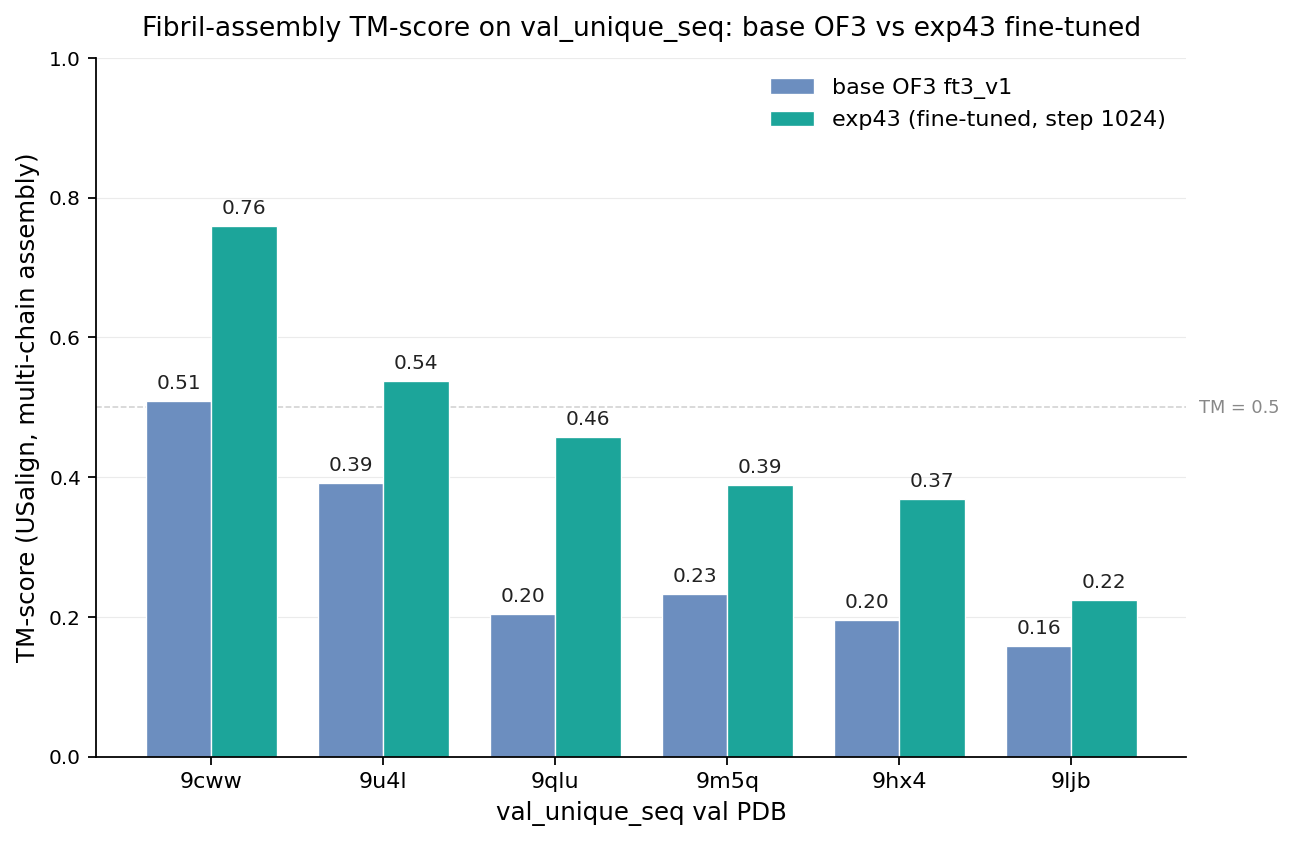
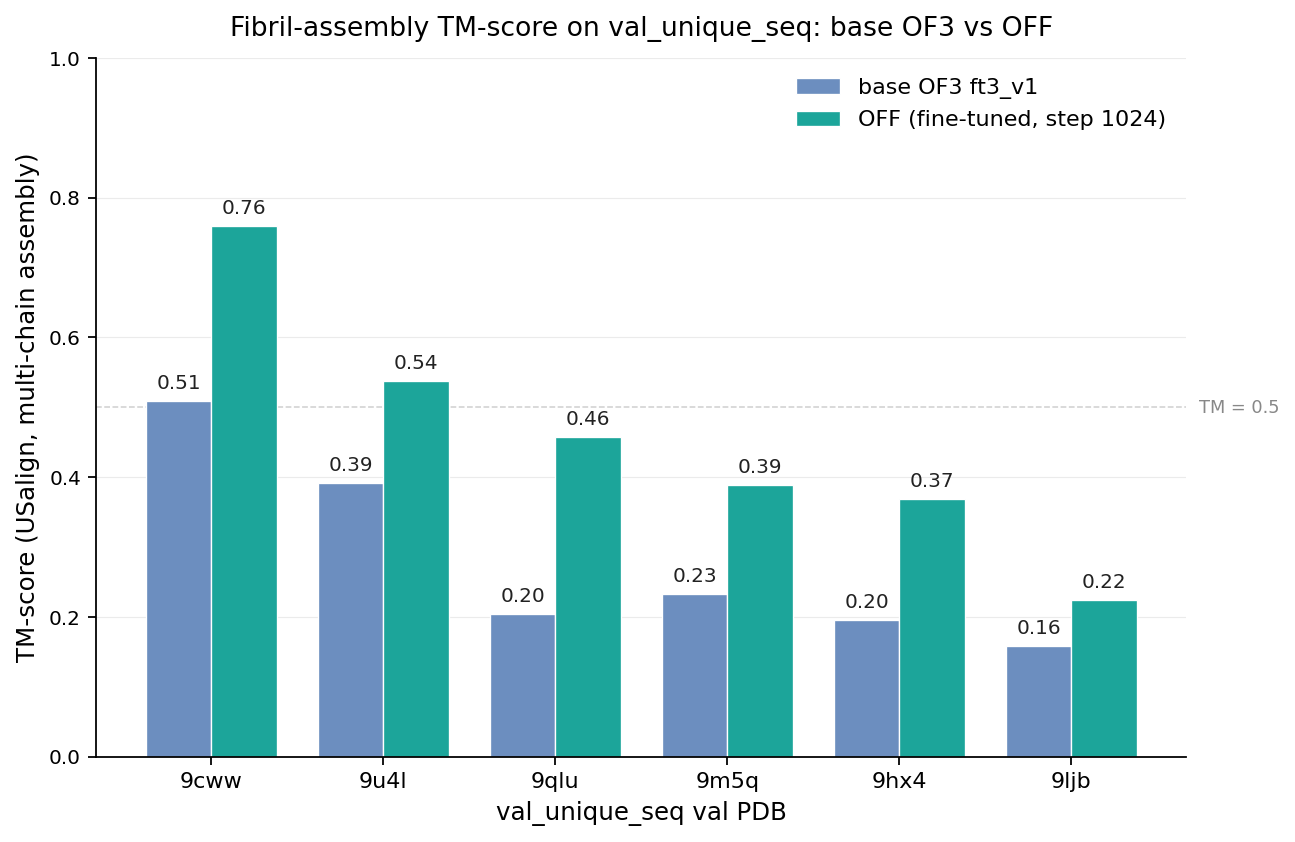
docs: rename OpenFibrilFold→OFF in body; metrics table split per-dataloader
- README: define OFF on first mention, then use OFF throughout body (h1
  title, logo alt, BibTeX, and release-notes history retain the full
  name on purpose).
- README metrics table: replace the 3-col aggregate (OF3 base / OFF)
  with a 4-col per-dataloader layout (OF3 base val_unique_seq /
  OFF val_unique_seq / OF3 base val_ligand / OFF val_ligand). Ligand
  rows show — in the val_unique_seq columns. Numbers come straight from
  docs/val_compare.md per-dataloader rows — no re-aggregation, no new
  data.
- docs/val_compare.md: doc title keeps the full name as natural first
  mention; body, table headers, and prose now use OFF. Drop "exp43" from
  body prose (config-file path runner_v3_exp43.yml is kept since it's
  the literal artifact name).
- docs/methods.md: define OFF on first mention, then OFF throughout.
- figures/build_h2h_grid.py: row label "OpenFibrilFold" → "OFF" so the
  rendered h2h_grid.png shows OFF in the bottom-row gutter.
- scripts/plot_val_compare_tm.py (private repo): bar legend
  "exp43 (fine-tuned, step 1024)" → "OFF (fine-tuned, step 1024)";
  title "... vs exp43 fine-tuned" → "... vs OFF". Re-rendered both
  per-dataloader PNGs and the h2h grid; copied into figures/.
- figures/render_overlays.py: tighten header comment to define OFF then
  use OFF in the legend description.

Changed region(s): [[0.1236, 0.0, 0.8649, 0.0618], [0.5869, 0.0926, 0.8031, 0.1544], [0.834, 0.1235, 0.8958, 0.1544]]

diff --git a/figures/build_h2h_grid.py b/figures/build_h2h_grid.py
@@ -3,7 +3,7 @@
 Layout:
     cols (left→right): 9qlu (best val_unique_seq), 9ug1 (best val_ligand),
                        9ljb (hardest case in either val set)
-    rows (top→bottom): OF3 base, Ground truth, OpenFibrilFold
+    rows (top→bottom): OF3 base, Ground truth, OFF
 
 Each cell shows the panel image and lDDT + TM-score labels below.
 Row labels appear as rotated text on the left margin; column labels
@@ -26,14 +26,14 @@ PDBS = ["9qlu", "9ug1", "9ljb"]
 ROWS = [
     ("OF3 base",        "base", (227, 121, 21)),
     ("Ground truth",    "gt",   (50, 50, 50)),
-    ("OpenFibrilFold",  "off",  (28, 99, 173)),
+    ("OFF",             "off",  (28, 99, 173)),
 ]
 
 # Per-PDB lDDT computed via openfold3.core.metrics.validation_all_atom.lddt
 # (the function the val pipeline uses) on heavy atoms after Hungarian
 # chain-permutation matching. Same formula → same numerical scale as the
 # README metric table. Computed by scripts/per_pdb_val_metric.py on the
-# val_compare pred / gt CIFs (epoch 0 of trainer.validate on exp43
+# val_compare pred / gt CIFs (epoch 0 of trainer.validate on OFF
 # step 1024 vs base OF3 ft3_v1).
 LDDT = {
     "9qlu": {"base": 0.406, "off": 0.492},

diff --git a/figures/render_overlays.py b/figures/render_overlays.py
@@ -1,7 +1,7 @@
-# PyMOL rendering script for OpenFibrilFold head-to-head overlays.
+# PyMOL rendering script for OFF (OpenFibrilFold) head-to-head overlays.
 #
 # For each PDB, loads the experimental ground-truth CIF, the OpenFold3 base
-# prediction CIF, and the OpenFibrilFold prediction CIF. Aligns both
+# prediction CIF, and the OFF prediction CIF. Aligns both
 # predictions onto the experimental backbone using cmd.super (structure-based;
 # robust to (a) the GT containing only resolved residues while predictions are
 # full-sequence, and (b) homo-multimer fibrils where sequence-based align
@@ -9,7 +9,7 @@
 # three structures overlaid:
 #   ground truth      grey   (translucent cartoon)
 #   OpenFold3 base    orange (cartoon, ligands as sticks)
-#   OpenFibrilFold    blue   (cartoon, ligands as sticks)
+#   OFF               blue   (cartoon, ligands as sticks)
 #
 # Usage:
 #     pymol -cq render_overlays.py -- \

diff --git a/README.md b/README.md
@@ -18,7 +18,7 @@
 
 ## Overview
 
-OpenFibrilFold adapts [OpenFold3](https://github.com/aqlaboratory/openfold-3) (an open reimplementation of AlphaFold 3) to the structural-prediction problem of **amyloid fibrils**: ribbon-like protein assemblies built from cross-β–stacked monomers, often in many coexisting *polymorphs*. Off-the-shelf folding models tend to either collapse onto a single fibril packing or produce geometrically-inconsistent ribbons because their cropping, distogram, and confidence machinery weren't designed for periodic ribbon assemblies. OpenFibrilFold introduces:
+OpenFibrilFold (OFF) adapts [OpenFold3](https://github.com/aqlaboratory/openfold-3) (an open reimplementation of AlphaFold 3) to the structural-prediction problem of **amyloid fibrils**: ribbon-like protein assemblies built from cross-β–stacked monomers, often in many coexisting *polymorphs*. Off-the-shelf folding models tend to either collapse onto a single fibril packing or produce geometrically-inconsistent ribbons because their cropping, distogram, and confidence machinery weren't designed for periodic ribbon assemblies. OFF introduces:
 
 - a **ribbon-symmetric crop** that preserves both faces of the cross-β stack during training,
 - a **cross-ribbon distogram weight** that emphasizes the fold-defining inter-strand contacts,
@@ -30,56 +30,56 @@ We are also interested in the model's capability to **predict ligand poses bound
 ## Highlights
 
 > [!NOTE]
-> Validation is a single full-sequence pass (`trainer.validate`) over the held-out fibril set, run end-to-end against unmodified OpenFold3 base weights using the *same* config (val pool, diffusion sampling, polymorph matching, MSAs, templates). The only difference between the two columns is the model weights. Two dataloaders, 13 PDBs total: `val_unique_seq` (n=6, rare-fold apo + ligand fibrils on unseen sequences) and `val_ligand` (n=7, ligand-bound fibrils). Numbers below are aggregates across both; per-dataloader and per-PDB breakdowns are in [`docs/val_compare.md`](docs/val_compare.md).
+> Validation is a single full-sequence pass (`trainer.validate`) over the held-out fibril set, run end-to-end against unmodified OpenFold3 base weights using the *same* config (val pool, diffusion sampling, polymorph matching, MSAs, templates). Within each dataloader, the only difference between the OF3 base and OFF columns is the model weights. Two dataloaders, 13 PDBs total: `val_unique_seq` (n=6, rare-fold apo + ligand fibrils on unseen sequences) and `val_ligand` (n=7, ligand-bound fibrils). Numbers below are reported per-dataloader (no aggregation); per-PDB breakdowns are in [`docs/val_compare.md`](docs/val_compare.md).
 
 <p align="center">
-  <img src="figures/val_ligand_tm.png" alt="Per-PDB fibril-assembly TM-score on val_ligand: base OF3 vs OpenFibrilFold (paired bars)" width="780" />
+  <img src="figures/val_ligand_tm.png" alt="Per-PDB fibril-assembly TM-score on val_ligand: base OF3 vs OFF (paired bars)" width="780" />
 </p>
 
-<sub>Per-PDB fibril-assembly TM-score on `val_ligand` (USalign multi-chain complex mode). OpenFibrilFold scores higher than base OF3 on every PDB in the set; per-PDB margins range from +0.15 to +0.32.</sub>
+<sub>Per-PDB fibril-assembly TM-score on `val_ligand` (USalign multi-chain complex mode). OFF scores higher than base OF3 on every PDB in the set; per-PDB margins range from +0.15 to +0.32.</sub>
 
 <p align="center">
-  <img src="figures/val_unique_seq_tm.png" alt="Per-PDB fibril-assembly TM-score on val_unique_seq: base OF3 vs OpenFibrilFold (paired bars)" width="780" />
+  <img src="figures/val_unique_seq_tm.png" alt="Per-PDB fibril-assembly TM-score on val_unique_seq: base OF3 vs OFF (paired bars)" width="780" />
 </p>
 
-<sub>Per-PDB fibril-assembly TM-score on `val_unique_seq` (USalign multi-chain complex mode). `val_unique_seq` holds out the protein sequence entirely, so the model has never seen these chains at train time — the harder set. OpenFibrilFold scores higher than base OF3 on every PDB; per-PDB margins range from +0.07 (9ljb, 1010 residues) to +0.25 (9cww, 9qlu).</sub>
+<sub>Per-PDB fibril-assembly TM-score on `val_unique_seq` (USalign multi-chain complex mode). `val_unique_seq` holds out the protein sequence entirely, so the model has never seen these chains at train time — the harder set. OFF scores higher than base OF3 on every PDB; per-PDB margins range from +0.07 (9ljb, 1010 residues) to +0.25 (9cww, 9qlu).</sub>
 
 <!-- METRICS_TABLE_START -->
-| Metric | OpenFold3 base | OpenFibrilFold |
-| --- | --- | --- |
-| **Structure (lDDT / TM, ↑)** |  |  |
-| Intra-protein lDDT | 0.477 | **0.614** |
-| Inter-protein lDDT | 0.193 | **0.482** |
-| Intra-complex lDDT | 0.479 | **0.615** |
-| TM-score (USalign, complex) | 0.333 | **0.539** |
-| **Ligand (lDDT, ↑)** |  |  |
-| Intra-ligand lDDT | 0.876 | **0.893** |
-| Intra-ligand lDDT (uha) | 0.729 | **0.754** |
-| Inter-ligand lDDT | 0.232 | **0.313** |
-| Protein–ligand lDDT | 0.069 | **0.086** |
-| **Geometric (↓ lower better; GDT ↑)** |  |  |
-| Distogram loss | 1.375 | **1.180** |
-| Scaled distogram loss | 0.0412 | **0.0354** |
-| Intra-protein dRMSD (Å) | 15.31 | **11.97** |
-| Intra-ligand dRMSD (Å) | 0.800 | **0.698** |
-| Complex RMSD (Å) | 30.53 | **19.22** |
-| GDT-TS | 0.024 | **0.129** |
-| GDT-HA | 0.004 | **0.057** |
-| **Confidence (pLDDT magnitude, ↑)** |  |  |
-| pLDDT (protein) | 0.254 | **0.440** |
-| pLDDT (complex) | 0.253 | **0.434** |
-| pLDDT (ligand) | 0.175 | **0.230** |
+| Metric | OF3 base<br/>val_unique_seq | OFF<br/>val_unique_seq | OF3 base<br/>val_ligand | OFF<br/>val_ligand |
+| --- | ---: | ---: | ---: | ---: |
+| **Structure (lDDT / TM, ↑)** |  |  |  |  |
+| Intra-protein lDDT | 0.477 | **0.538** | 0.477 | **0.679** |
+| Inter-protein lDDT | 0.168 | **0.425** | 0.214 | **0.531** |
+| Intra-complex lDDT | 0.477 | **0.538** | 0.480 | **0.681** |
+| TM-score (USalign, complex) | 0.282 | **0.456** | 0.376 | **0.610** |
+| **Ligand (lDDT, ↑)** |  |  |  |  |
+| Intra-ligand lDDT | — | — | 0.876 | **0.893** |
+| Intra-ligand lDDT (uha) | — | — | 0.729 | **0.754** |
+| Inter-ligand lDDT | — | — | 0.232 | **0.313** |
+| Protein–ligand lDDT | — | — | 0.069 | **0.086** |
+| **Geometric (↓ lower better; GDT ↑)** |  |  |  |  |
+| Distogram loss | 1.642 | **1.387** | 1.146 | **1.003** |
+| Scaled distogram loss | 0.0493 | **0.0416** | 0.0344 | **0.0301** |
+| Intra-protein dRMSD (Å) | 13.87 | **12.56** | 16.54 | **11.47** |
+| Intra-ligand dRMSD (Å) | — | — | 0.800 | **0.698** |
+| Complex RMSD (Å) | 25.63 | **20.84** | 34.74 | **17.83** |
+| GDT-TS | 0.038 | **0.129** | 0.011 | **0.128** |
+| GDT-HA | 0.006 | **0.053** | 0.002 | **0.060** |
+| **Confidence (pLDDT magnitude, ↑)** |  |  |  |  |
+| pLDDT (protein) | 0.280 | **0.316** | 0.233 | **0.546** |
+| pLDDT (complex) | 0.280 | **0.316** | 0.231 | **0.535** |
+| pLDDT (ligand) | — | — | 0.175 | **0.230** |
 
-<sub>Both columns: same `trainer.validate` pass on the same held-out fibril set (13 PDBs), identical config — only model weights differ. Aggregates are weighted across the two dataloaders (n=6 + n=7). Ligand rows are reported from `val_ligand` only. TM-score is USalign multi-chain complex alignment on the val pipeline's pred + GT CIFs; it scores the full fibril assembly (monomer fold *and* stacking geometry) in one number. Pearson(lDDT, pLDDT) is intentionally not reported in this headline table — at the current pLDDT magnitudes (still in the 0.2–0.5 band) the per-PDB Pearson swings on tiny shifts and is not a reliable calibration signal yet. See [`docs/val_compare.md`](docs/val_compare.md) for the per-dataloader breakdown and the Pearson numbers with caveats.</sub>
+<sub>Same `trainer.validate` pass on the same held-out fibril set, identical config — within each dataloader, only model weights differ between the OF3 base and OFF columns. Numbers shown per-dataloader (no aggregation): `val_unique_seq` (n=6, unseen sequences) on the left, `val_ligand` (n=7, ligand-bound) on the right. Ligand rows are reported from `val_ligand` only. TM-score is USalign multi-chain complex alignment on the val pipeline's pred + GT CIFs; it scores the full fibril assembly (monomer fold *and* stacking geometry) in one number. Pearson(lDDT, pLDDT) is intentionally not reported in this headline table — at the current pLDDT magnitudes (still in the 0.2–0.5 band) the per-PDB Pearson swings on tiny shifts and is not a reliable calibration signal yet. See [`docs/val_compare.md`](docs/val_compare.md) for per-PDB breakdowns and the Pearson numbers with caveats.</sub>
 <!-- METRICS_TABLE_END -->
 
 ## Head-to-head predictions
 
-Three held-out fibrils, viewed end-on (looking straight down the protofilament stacking axis) so the cross-section that defines the fold is visible. **Top row:** OpenFold3 base. **Middle:** experimental cryo-EM ground truth. **Bottom:** OpenFibrilFold. Columns were picked by per-PDB ΔTM (OpenFibrilFold − base OF3) within each dataloader, so the figure spans the full range of behaviour on the held-out set: **9qlu** — largest ΔTM on `val_unique_seq` (+0.253); **9ug1** — largest ΔTM on `val_ligand` (+0.324); **9ljb** — smallest ΔTM in either set (+0.066), a 1010-residue assembly where both models still struggle. Each column is rendered at the same physical scale; the prediction panels are coloured by per-residue lDDT against the experimental reference — saturated colour = aligned, faded toward white = mis-aligned. The number under each prediction is the per-PDB intra-complex lDDT computed with the *same* function the val pipeline uses (`openfold3.core.metrics.validation_all_atom.lddt`) on heavy atoms after Hungarian chain-permutation matching, so values are on the same scale as the metric table above.
+Three held-out fibrils, viewed end-on (looking straight down the protofilament stacking axis) so the cross-section that defines the fold is visible. **Top row:** OpenFold3 base. **Middle:** experimental cryo-EM ground truth. **Bottom:** OFF. Columns were picked by per-PDB ΔTM (OFF − base OF3) within each dataloader, so the figure spans the full range of behaviour on the held-out set: **9qlu** — largest ΔTM on `val_unique_seq` (+0.253); **9ug1** — largest ΔTM on `val_ligand` (+0.324); **9ljb** — smallest ΔTM in either set (+0.066), a 1010-residue assembly where both models still struggle. Each column is rendered at the same physical scale; the prediction panels are coloured by per-residue lDDT against the experimental reference — saturated colour = aligned, faded toward white = mis-aligned. The number under each prediction is the per-PDB intra-complex lDDT computed with the *same* function the val pipeline uses (`openfold3.core.metrics.validation_all_atom.lddt`) on heavy atoms after Hungarian chain-permutation matching, so values are on the same scale as the metric table above.
 
 <!-- HEAD_TO_HEAD_START -->
 <p align="center">
-  <img src="figures/h2h_grid.png" alt="3×3 head-to-head: OF3 base vs ground truth vs OpenFibrilFold on 9qlu (largest val_unique_seq ΔTM), 9ug1 (largest val_ligand ΔTM), 9ljb (smallest ΔTM in either val set)" width="780" />
+  <img src="figures/h2h_grid.png" alt="3×3 head-to-head: OF3 base vs ground truth vs OFF on 9qlu (largest val_unique_seq ΔTM), 9ug1 (largest val_ligand ΔTM), 9ljb (smallest ΔTM in either val set)" width="780" />
 </p>
 <!-- HEAD_TO_HEAD_END -->
 
@@ -102,17 +102,17 @@ For the full description, including the rationale for each loss-module change, s
 The following will be released alongside the public flip of this repository:
 
 - **Curated fibril dataset** — preprocessed structures, splits, MSAs, ribbon assignments, and polymorph groups.
-- **Trained model weights** — final OpenFibrilFold checkpoint and the inference config to use it.
+- **Trained model weights** — final OFF checkpoint and the inference config to use it.
 - **Training scripts** — full reproducible training pipeline (data prep → stage 1 → stage 2 → eval), including the OpenFold3 patch set.
 - **Manuscript / preprint** — describing the architectural changes, training recipe, and benchmarking results in detail.
 
 ## How it was built
 
-OpenFibrilFold was developed entirely as a **"vibe-coded"** project using [Claude Code](https://www.anthropic.com/claude-code) (Opus 4.6 and 4.7) with agent teams parallelizing data curation, patch development, debugging, ablation analysis, and figure generation. The OpenFold3 patch set, training infrastructure, dataset pipeline, polymorph machinery, and this repository were all written in collaboration with the model. End-to-end training fit on **3× NVIDIA RTX A6000 Ada** over the course of a single day.
+OFF was developed entirely as a **"vibe-coded"** project using [Claude Code](https://www.anthropic.com/claude-code) (Opus 4.6 and 4.7) with agent teams parallelizing data curation, patch development, debugging, ablation analysis, and figure generation. The OpenFold3 patch set, training infrastructure, dataset pipeline, polymorph machinery, and this repository were all written in collaboration with the model. End-to-end training fit on **3× NVIDIA RTX A6000 Ada** over the course of a single day.
 
 ## Acknowledgements
 
-OpenFibrilFold is a fine-tune of [OpenFold3](https://github.com/aqlaboratory/openfold-3) (AQ Laboratory). Both OpenFold3 and the reference [AlphaFold 3](https://www.nature.com/articles/s41586-024-07487-w) algorithm are foundational to this work. Cross-β fibril structures used for training and validation come from depositions in the [Protein Data Bank](https://www.rcsb.org/).
+OFF is a fine-tune of [OpenFold3](https://github.com/aqlaboratory/openfold-3) (AQ Laboratory). Both OpenFold3 and the reference [AlphaFold 3](https://www.nature.com/articles/s41586-024-07487-w) algorithm are foundational to this work. Cross-β fibril structures used for training and validation come from depositions in the [Protein Data Bank](https://www.rcsb.org/).
 
 ## Citation
 

diff --git a/docs/val_compare.md b/docs/val_compare.md
@@ -1,6 +1,6 @@
 # Validation: OpenFibrilFold vs OpenFold3 base
 
-Side-by-side validation of OpenFibrilFold (exp43, step 1024) against the unmodified OpenFold3 ft3_v1 base weights, run through the same Lightning val pipeline: same dataloaders, same crops/templates, same diffusion sampling, same polymorph matching. The only thing that changes between the two columns is the model weights.
+Side-by-side validation of OFF (step 1024 checkpoint) against the unmodified OpenFold3 ft3_v1 base weights, run through the same Lightning val pipeline: same dataloaders, same crops/templates, same diffusion sampling, same polymorph matching. Within each dataloader, the only thing that changes between the OF3 base and OFF columns is the model weights.
 
 ## Val set
 
@@ -16,21 +16,21 @@ Two held-out dataloaders, full-sequence (no train-time cropping):
 USalign multi-chain complex alignment (`-mm 1 -ter 0`), pred CIF vs GT CIF from the same Lightning val pass. The score is computed on the full fibril assembly — chain correspondences are found by MM-align greedy search, so a single TM number captures both monomer fold *and* stacking geometry.
 
 <p align="center">
-  <img src="../figures/val_ligand_tm.png" alt="Per-PDB TM-score on val_ligand: base OF3 vs OpenFibrilFold" width="780" />
+  <img src="../figures/val_ligand_tm.png" alt="Per-PDB TM-score on val_ligand: base OF3 vs OFF" width="780" />
 </p>
 
 <p align="center">
-  <img src="../figures/val_unique_seq_tm.png" alt="Per-PDB TM-score on val_unique_seq: base OF3 vs OpenFibrilFold" width="780" />
+  <img src="../figures/val_unique_seq_tm.png" alt="Per-PDB TM-score on val_unique_seq: base OF3 vs OFF" width="780" />
 </p>
 
-| dataloader | n | mean TM (base OF3) | mean TM (OpenFibrilFold) | Δ |
+| dataloader | n | mean TM (base OF3) | mean TM (OFF) | Δ |
 |---|---:|---:|---:|---:|
 | `val_ligand`     | 7 | 0.376 | **0.610** | +0.235 |
 | `val_unique_seq` | 6 | 0.282 | **0.456** | +0.174 |
 
 **Per-PDB TM-score (winner highlighted):**
 
-| dataloader | pdb | L (res) | base OF3 | OpenFibrilFold | Δ | base RMSD (Å) | OFF RMSD (Å) |
+| dataloader | pdb | L (res) | base OF3 | OFF | Δ | base RMSD (Å) | OFF RMSD (Å) |
 |---|---|---:|---:|---:|---:|---:|---:|
 | val_ligand     | 8byn | 750 | 0.260 | **0.510** | +0.249 | 7.60 | 6.44 |
 | val_ligand     | 8fug | 730 | 0.351 | **0.657** | +0.305 | 4.11 | 4.58 |
@@ -46,7 +46,7 @@ USalign multi-chain complex alignment (`-mm 1 -ter 0`), pred CIF vs GT CIF from 
 | val_unique_seq | 9qlu |  330 | 0.204 | **0.457** | +0.253 | 7.09 | 3.54 |
 | val_unique_seq | 9u4l |  345 | 0.392 | **0.538** | +0.146 | 5.71 | 5.58 |
 
-OpenFibrilFold scores higher than base OF3 on every PDB in the set (per-PDB ΔTM range +0.066 to +0.324). The largest per-PDB improvement is 9ug1 (α-syn fibril, 10 chains): TM 0.573 / RMSD 5.09 Å → TM 0.897 / RMSD 2.32 Å. The smallest is 9ljb (a 1010-residue assembly), where both models still produce only partial folds.
+OFF scores higher than base OF3 on every PDB in the set (per-PDB ΔTM range +0.066 to +0.324). The largest per-PDB improvement is 9ug1 (α-syn fibril, 10 chains): TM 0.573 / RMSD 5.09 Å → TM 0.897 / RMSD 2.32 Å. The smallest is 9ljb (a 1010-residue assembly), where both models still produce only partial folds.
 
 ## Full Lightning val-pipeline metrics
 
@@ -54,7 +54,7 @@ Aggregate numbers below are weighted across all 13 val PDBs (6 + 7). Per-dataloa
 
 ### Structure (lDDT, ↑)
 
-| Metric | base OF3 (agg) | OpenFibrilFold (agg) | base val_unique_seq | OFF val_unique_seq | base val_ligand | OFF val_ligand |
+| Metric | base OF3 (agg) | OFF (agg) | base val_unique_seq | OFF val_unique_seq | base val_ligand | OFF val_ligand |
 |---|---:|---:|---:|---:|---:|---:|
 | Intra-protein lDDT | 0.477 | **0.614** | 0.477 | **0.538** | 0.477 | **0.679** |
 | Inter-protein lDDT | 0.193 | **0.482** | 0.168 | **0.425** | 0.214 | **0.531** |
@@ -63,7 +63,7 @@ Aggregate numbers below are weighted across all 13 val PDBs (6 + 7). Per-dataloa
 
 ### Ligand (lDDT, ↑) — `val_ligand` only (n=7)
 
-| Metric | base OF3 | OpenFibrilFold |
+| Metric | base OF3 | OFF |
 |---|---:|---:|
 | Intra-ligand lDDT | 0.876 | **0.893** |
 | Intra-ligand lDDT (uha) | 0.729 | **0.754** |
@@ -72,7 +72,7 @@ Aggregate numbers below are weighted across all 13 val PDBs (6 + 7). Per-dataloa
 
 ### Geometric (↓ lower better; GDT ↑)
 
-| Metric | base OF3 (agg) | OpenFibrilFold (agg) | base val_unique_seq | OFF val_unique_seq | base val_ligand | OFF val_ligand |
+| Metric | base OF3 (agg) | OFF (agg) | base val_unique_seq | OFF val_unique_seq | base val_ligand | OFF val_ligand |
 |---|---:|---:|---:|---:|---:|---:|
 | Distogram loss            | 1.375  | **1.180**  | 1.642 | **1.387** | 1.146 | **1.003** |
 | Scaled distogram loss     | 0.0412 | **0.0354** | 0.0493 | **0.0416** | 0.0344 | **0.0301** |
@@ -86,7 +86,7 @@ Aggregate numbers below are weighted across all 13 val PDBs (6 + 7). Per-dataloa
 
 ### Confidence calibration (↑)
 
-| Metric | base OF3 (agg) | OpenFibrilFold (agg) | base val_unique_seq | OFF val_unique_seq | base val_ligand | OFF val_ligand |
+| Metric | base OF3 (agg) | OFF (agg) | base val_unique_seq | OFF val_unique_seq | base val_ligand | OFF val_ligand |
 |---|---:|---:|---:|---:|---:|---:|
 | pLDDT (protein)             | 0.254 | **0.440** | 0.280 | **0.316** | 0.233 | **0.546** |
 | pLDDT (complex)             | 0.253 | **0.434** | 0.280 | **0.316** | 0.231 | **0.535** |
@@ -96,11 +96,11 @@ Aggregate numbers below are weighted across all 13 val PDBs (6 + 7). Per-dataloa
 | Pearson(lDDT, pLDDT) ligand¹² | 0.144 | -0.517 | — | — | 0.144 | -0.517 |
 
 ¹ Ligand metrics from `val_ligand` only.
-² **Pearson is unreliable below ~0.5 pLDDT magnitude.** When a model's pLDDT magnitudes are still bunched in the low band, the per-PDB correlation between lDDT and pLDDT swings wildly on tiny shifts in the cluster geometry — base OF3's high `val_unique_seq` Pearson (0.83) reflects this, not genuine calibration, and the negative ligand Pearson in OpenFibrilFold reflects the same problem from the other side. The Pearson rows should not be read as evidence of (or against) confidence calibration on this val set; that conclusion is gated on getting protein/complex pLDDT magnitudes consistently above ~0.5 first.
+² **Pearson is unreliable below ~0.5 pLDDT magnitude.** When a model's pLDDT magnitudes are still bunched in the low band, the per-PDB correlation between lDDT and pLDDT swings wildly on tiny shifts in the cluster geometry — base OF3's high `val_unique_seq` Pearson (0.83) reflects this, not genuine calibration, and the negative ligand Pearson in OFF reflects the same problem from the other side. The Pearson rows should not be read as evidence of (or against) confidence calibration on this val set; that conclusion is gated on getting protein/complex pLDDT magnitudes consistently above ~0.5 first.
 
 ### Clash rates (↓, mean atom-pair clash fraction)
 
-| Metric | base OF3 (agg) | OpenFibrilFold (agg) |
+| Metric | base OF3 (agg) | OFF (agg) |
 |---|---:|---:|
 | Inter-protein clash | 2.5e-7 | 2.9e-7 |
 | Inter protein–ligand clash¹ | 3.9e-7 | **0.0** |
@@ -109,11 +109,11 @@ Aggregate numbers below are weighted across all 13 val PDBs (6 + 7). Per-dataloa
 
 ## Reproducing
 
-The full pipeline lives in the private working repo. From the OpenFibrilFold side, the relevant artefacts are:
+The full pipeline lives in the private working repo. From the OFF side, the relevant artefacts are:
 
 - Val pipeline: standard `trainer.validate()` on the `runner_v3_exp43.yml` config, with only `restart_checkpoint_path` swapped between runs. `RIBBONFOLD_DISABLE_GATE=1` set on both to keep the template-embedder code path identical.
 - TM-score: [USalign](https://zhanggroup.org/US-align/), built from the published C++ source. Multi-chain complex mode (`-mm 1 -ter 0`) on pred + GT CIFs from `val_structures/epoch_0/`.
-- Bar chart: matplotlib, paired bars per PDB sorted by OpenFibrilFold TM descending.
+- Bar chart: matplotlib, paired bars per PDB sorted by OFF TM descending.
 
 ## Caveats
 

diff --git a/docs/methods.md b/docs/methods.md
@@ -1,6 +1,6 @@
 # Methods
 
-OpenFibrilFold is a fine-tune of [OpenFold3](https://github.com/aqlaboratory/openfold-3) (an open-source reimplementation of AlphaFold 3) targeting amyloid fibril structure prediction. The model retains OF3's full architecture and is adapted through (1) targeted loss-module changes, (2) a ribbon-symmetric cropping strategy, (3) polymorph-aware training and evaluation, and (4) a fibril-specific dataset.
+OpenFibrilFold (OFF) is a fine-tune of [OpenFold3](https://github.com/aqlaboratory/openfold-3) (an open-source reimplementation of AlphaFold 3) targeting amyloid fibril structure prediction. The model retains OF3's full architecture and is adapted through (1) targeted loss-module changes, (2) a ribbon-symmetric cropping strategy, (3) polymorph-aware training and evaluation, and (4) a fibril-specific dataset.
 
 ## Data
 
@@ -11,7 +11,7 @@ OpenFibrilFold is a fine-tune of [OpenFold3](https://github.com/aqlaboratory/ope
 
 ## Architecture changes
 
-OpenFibrilFold preserves the OpenFold3 trunk (Pairformer + diffusion module + confidence heads) verbatim — no new modules. The fine-tuning logic is concentrated in the data, loss, and config layers.
+OFF preserves the OpenFold3 trunk (Pairformer + diffusion module + confidence heads) verbatim — no new modules. The fine-tuning logic is concentrated in the data, loss, and config layers.
 
 ### Ribbon-symmetric cropping
 - Standard OF3 spatial / interface crops can clip a fibril asymmetrically — e.g., 6 chains on one face and 1 on the other — yielding training samples whose β-sheet stacking is geometrically inconsistent.
